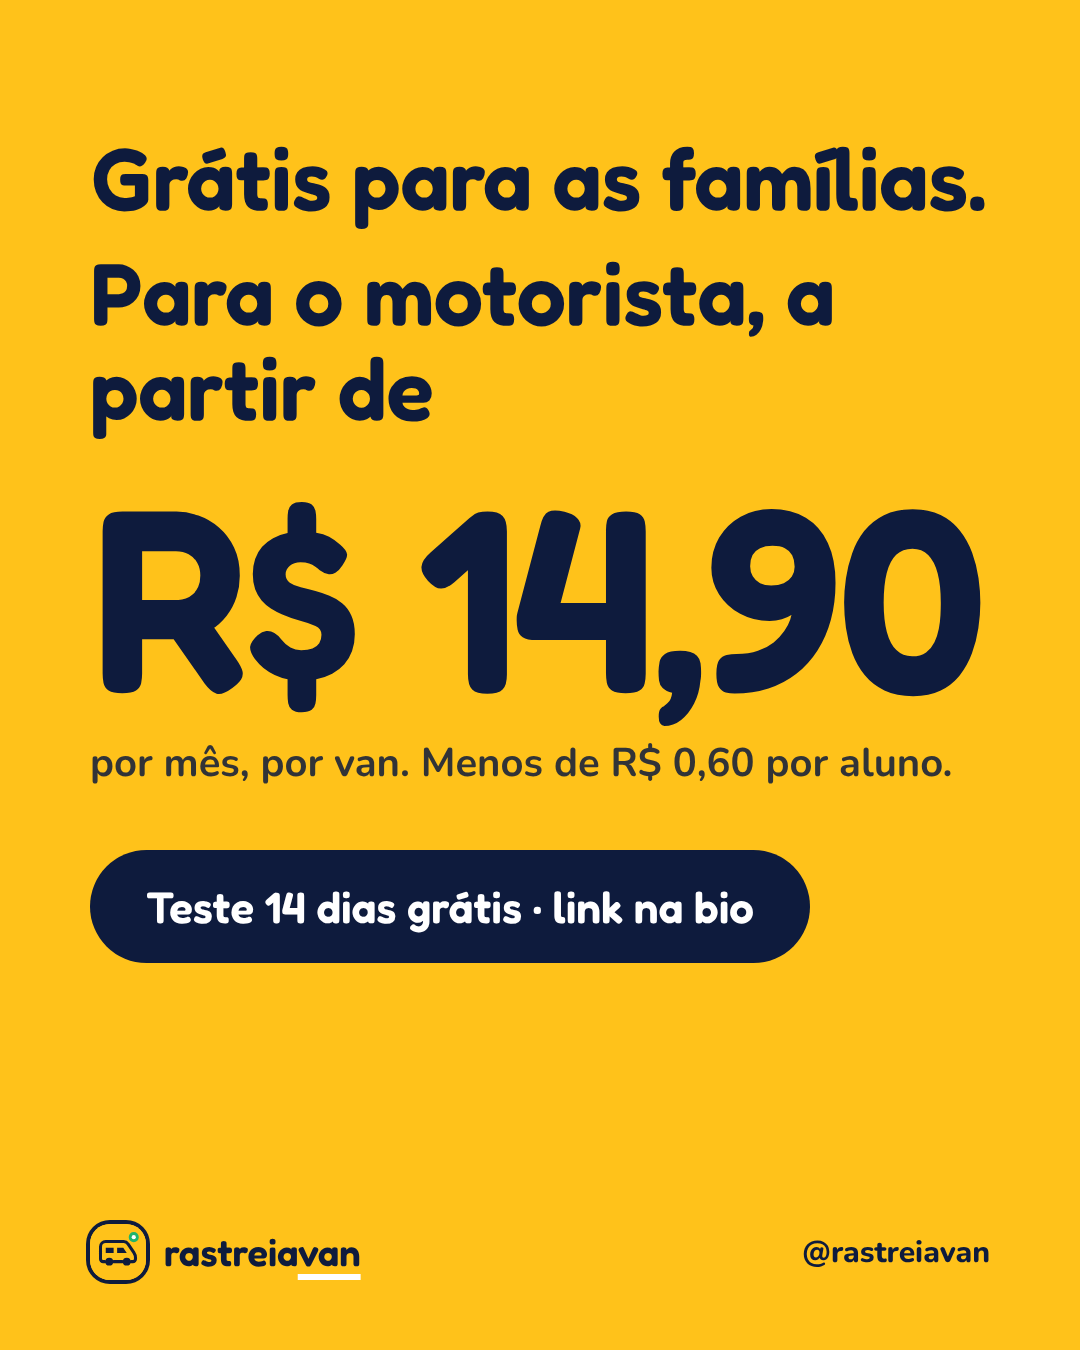
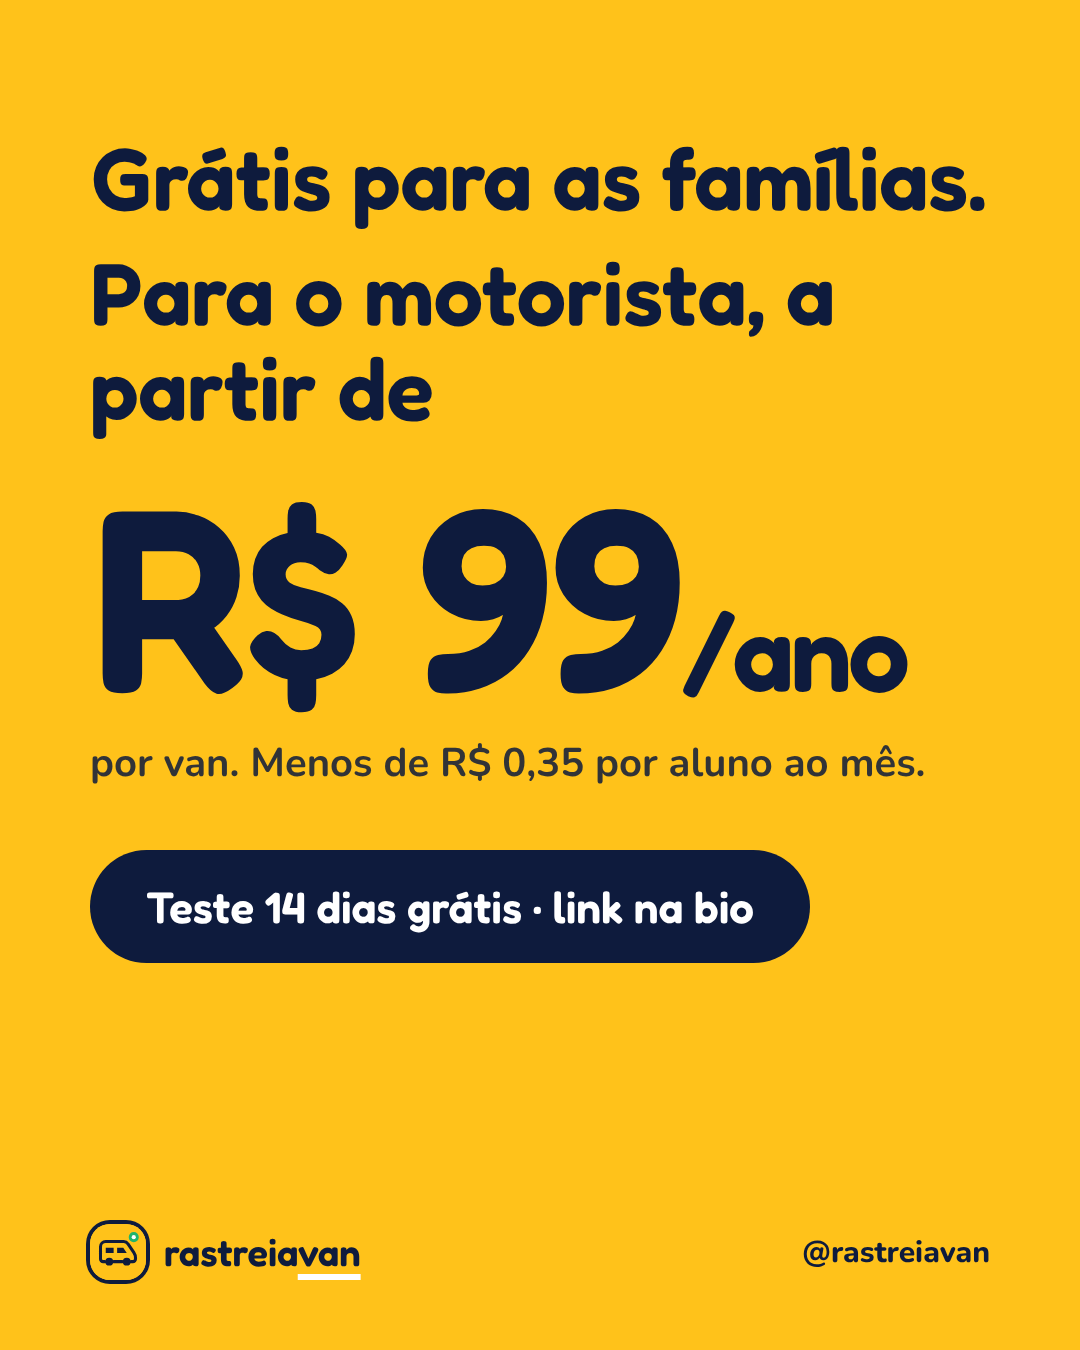
Rastreia Van: preços R$ 9,90/19,90 e anual R$ 99/199 em destaque, avisos só por notificação
Claude-Session: https://claude.ai/code/session_01UAdC3Mnt3zmUnofXt4JYxz

Changed region(s): [[0.1528, 0.3733, 0.9167, 0.5911]]

diff --git a/rastreiavan/index.html b/rastreiavan/index.html
@@ -4,7 +4,7 @@
   <meta charset="utf-8">
   <meta name="viewport" content="width=device-width, initial-scale=1">
   <title>Rastreia Van</title>
-  <meta name="description" content="Rastreie a van escolar em tempo real e receba notificações no celular: a van saiu, chega em 5 minutos, chegou na escola. App grátis para as famílias, a partir de R$ 14,90 por van para o motorista.">
+  <meta name="description" content="Rastreie a van escolar em tempo real e receba notificações no celular: a van saiu, chega em 5 minutos, chegou na escola. App grátis para as famílias, a partir de R$ 99 por ano por van para o motorista.">
   <meta name="theme-color" content="#FFC21A">
   <meta property="og:title" content="Rastreia Van — saiba exatamente quando a van chega">
   <meta property="og:description" content="Mapa ao vivo da van escolar e notificações automáticas no celular da família.">
@@ -65,7 +65,7 @@
         </div>
         <div class="provas">
           <div><svg><use href="#i-check"/></svg> App grátis para as famílias</div>
-          <div><svg><use href="#i-check"/></svg> A partir de R$ 14,90 por van</div>
+          <div><svg><use href="#i-check"/></svg> A partir de R$ 99 por ano</div>
           <div><svg><use href="#i-check"/></svg> Pronto em 5 minutos</div>
         </div>
       </div>
@@ -118,7 +118,7 @@
       <div><b>Ao vivo</b><span>a van se mexendo no mapa</span></div>
       <div><b>0 mensagens</b><span>digitadas pelo motorista</span></div>
       <div><b>R$ 0</b><span>para as famílias</span></div>
-      <div><b>~R$ 0,60</b><span>por aluno ao mês para o motorista</span></div>
+      <div><b>R$ 99/ano</b><span>por van: menos de R$ 0,35 por aluno ao mês</span></div>
     </div>
   </div>
 
@@ -241,16 +241,16 @@
 
       <div class="toggle">
         <span>Mensal</span>
-        <button class="chave" role="switch" aria-checked="false" aria-label="Alternar cobrança anual" id="chave-anual"></button>
-        <span>Anual <span class="economia">2 meses grátis</span></span>
+        <button class="chave" role="switch" aria-checked="true" aria-label="Alternar cobrança anual" id="chave-anual"></button>
+        <span>Anual <span class="economia">mais vantajoso</span></span>
       </div>
 
       <div class="planos">
         <div class="plano">
           <h3>📍 Essencial</h3>
           <p class="desc">A família vê a van no mapa e recebe os avisos principais.</p>
-          <div class="preco" data-mensal="14,90" data-anual="12,42">R$ <span class="valor">14,90</span><small>/mês</small></div>
-          <p class="preco-nota" data-mensal="Menos de R$ 0,60 por aluno" data-anual="R$ 149 por ano">Menos de R$ 0,60 por aluno</p>
+          <div class="preco" data-mensal="9,90" data-anual="99">R$ <span class="valor">99</span><small>/ano</small></div>
+          <p class="preco-nota" data-mensal="Ou R$ 99 no plano anual" data-anual="Equivale a R$ 8,25/mês · economize R$ 19,80">Equivale a R$ 8,25/mês · economize R$ 19,80</p>
           <ul>
             <li><svg><use href="#i-check"/></svg> Mapa em tempo real para as famílias</li>
             <li><svg><use href="#i-check"/></svg> Previsão de chegada (casa e escola)</li>
@@ -268,8 +268,8 @@
           <span class="fita">⭐ Mais escolhido</span>
           <h3>🚐 Completo</h3>
           <p class="desc">Todos os avisos e tudo para organizar a sua van.</p>
-          <div class="preco" data-mensal="29,90" data-anual="24,92">R$ <span class="valor">29,90</span><small>/mês</small></div>
-          <p class="preco-nota" data-mensal="Cerca de R$ 1,20 por aluno" data-anual="R$ 299 por ano">Cerca de R$ 1,20 por aluno</p>
+          <div class="preco" data-mensal="19,90" data-anual="199">R$ <span class="valor">199</span><small>/ano</small></div>
+          <p class="preco-nota" data-mensal="Ou R$ 199 no plano anual" data-anual="Equivale a R$ 16,58/mês · economize R$ 39,80">Equivale a R$ 16,58/mês · economize R$ 39,80</p>
           <ul>
             <li><svg><use href="#i-check"/></svg> <b>Tudo do plano Essencial</b></li>
             <li><svg><use href="#i-check"/></svg> Todos os avisos: chega em 10 e 5 min, embarcou, desembarcou, saiu da escola, chegou em casa, atraso</li>
@@ -338,8 +338,8 @@
         <h2>Perguntas frequentes</h2>
       </div>
       <div class="faq">
-        <details open><summary>Quem paga o Rastreia Van?</summary><p>O motorista (ou a empresa de transporte) assina por van: R$ 14,90 no Essencial ou R$ 29,90 no Completo. As famílias baixam o app e usam de graça. Com 25 alunos, dá menos de R$ 1,20 por aluno ao mês.</p></details>
-        <details><summary>Como a família recebe os avisos?</summary><p>Por notificação no celular, igual a uma mensagem chegando: o celular vibra e o aviso aparece na tela, mesmo bloqueado. É só ter o app instalado e permitir as notificações.</p></details>
+        <details open><summary>Quem paga o Rastreia Van?</summary><p>O motorista (ou a empresa de transporte) assina por van. No plano anual: R$ 99 no Essencial ou R$ 199 no Completo (ou R$ 9,90 e R$ 19,90 por mês). As famílias baixam o app e usam de graça. Com 25 alunos, o Completo anual dá menos de R$ 0,70 por aluno ao mês.</p></details>
+        <details><summary>Como a família recebe os avisos?</summary><p>Todos os avisos chegam por notificação no celular (o pop-up na tela), igual a uma mensagem chegando: o celular vibra e o aviso aparece na tela, mesmo bloqueado. É só ter o app instalado e permitir as notificações.</p></details>
         <details><summary>Preciso comprar um rastreador?</summary><p>Não. O celular do motorista funciona como rastreador quando ele toca em “Iniciar rota”. Mais para frente, também vai dar para conectar um rastreador GPS fixo na van.</p></details>
         <details><summary>Qual a diferença entre os dois planos?</summary><p>No <b>Essencial</b>, a família vê a van no mapa e recebe os avisos principais: a van saiu, chega em 5 minutos e chegou na escola. No <b>Completo</b>, entram todos os avisos (inclusive embarcou e chegou em casa), lista de chamada, “não vai hoje”, chat, recados, cobrança por Pix e botão de emergência.</p></details>
         <details><summary>Como a mãe conecta na van certa?</summary><p>Cada van tem um código (e um QR Code). A família digita o código no app, cadastra o filho e o endereço, e o motorista aprova.</p></details>
@@ -396,7 +396,7 @@
     var anual = chave.getAttribute('aria-checked') !== 'true';
     chave.setAttribute('aria-checked', String(anual));
     var modo = anual ? 'anual' : 'mensal';
-    document.querySelectorAll('.preco').forEach(function (p) { p.querySelector('.valor').textContent = p.dataset[modo]; });
+    document.querySelectorAll('.preco').forEach(function (p) { p.querySelector('.valor').textContent = p.dataset[modo]; p.querySelector('small').textContent = anual ? '/ano' : '/mês'; });
     document.querySelectorAll('.preco-nota').forEach(function (n) { n.textContent = n.dataset[modo]; });
   });
 </script>

diff --git a/rastreiavan/instagram/posts.html b/rastreiavan/instagram/posts.html
@@ -134,8 +134,8 @@
 <div class="post amarelo" id="carrossel-05">
   <h2 class="medio" style="margin-top: 40px;">Grátis para as famílias.</h2>
   <h2 class="medio" style="margin-top: 20px;">Para o motorista, a partir de</h2>
-  <div class="f" style="font-size: 260px; margin-top: 20px; letter-spacing: -4px;">R$ 14,90</div>
-  <p class="sub">por mês, por van. Menos de R$ 0,60 por aluno.</p>
+  <div class="f" style="font-size: 260px; margin-top: 20px; letter-spacing: -4px;">R$ 99<span style="font-size:110px">/ano</span></div>
+  <p class="sub">por van. Menos de R$ 0,35 por aluno ao mês.</p>
   <div style="margin-top: 60px;"><span class="botao">Teste 14 dias grátis · link na bio</span></div>
   <div class="rodape"><span class="marca" style="font-size:38px"><img src="../assets/logo-mark.svg" alt="" style="width:56px;height:56px"><b><b>rastreia<span>van</span></b></b></span><span>@rastreiavan</span></div>
 </div>
@@ -187,14 +187,14 @@
   <div style="display:grid; grid-template-columns: 1fr 1fr; gap: 30px; margin-top: 60px;">
     <div class="cartao" style="padding: 44px;">
       <div class="f" style="font-size: 50px;">📍 Essencial</div>
-      <div class="f" style="font-size: 110px; margin: 20px 0 6px;">14,90</div>
-      <div style="font-size: 28px; font-weight: 700; color: var(--tx2); margin-bottom: 30px;">R$ por mês</div>
+      <div class="f" style="font-size: 110px; margin: 20px 0 6px;">99</div>
+      <div style="font-size: 28px; font-weight: 700; color: var(--tx2); margin-bottom: 30px;">R$ por ano · ou 9,90/mês</div>
       <ul class="chk" style="font-size: 27px; gap: 14px;"><li>Mapa ao vivo</li><li>Previsão de chegada</li><li>Aviso: saiu, 5 min, chegou na escola</li></ul>
     </div>
     <div class="cartao" style="padding: 44px; box-shadow: 0 0 0 8px var(--am);">
       <div class="f" style="font-size: 50px;">🚐 Completo</div>
-      <div class="f" style="font-size: 110px; margin: 20px 0 6px;">29,90</div>
-      <div style="font-size: 28px; font-weight: 700; color: var(--tx2); margin-bottom: 30px;">R$ por mês</div>
+      <div class="f" style="font-size: 110px; margin: 20px 0 6px;">199</div>
+      <div style="font-size: 28px; font-weight: 700; color: var(--tx2); margin-bottom: 30px;">R$ por ano · ou 19,90/mês</div>
       <ul class="chk" style="font-size: 27px; gap: 14px;"><li>Todos os avisos</li><li>Chamada e “não vai hoje”</li><li>Chat, recados e Pix</li><li>Botão de emergência</li></ul>
     </div>
   </div>
@@ -244,9 +244,9 @@
   <div class="marca"><img src="../assets/logo-mark.svg" alt=""><b>rastreia<span>van</span></b></div>
   <h1 class="grande" style="margin-top: 90px;">Motorista, teste <mark>14 dias grátis</mark>.</h1>
   <div class="cartao" style="margin-top: 80px; box-shadow: 0 20px 50px rgba(14,27,61,.12);">
-    <div class="f" style="font-size: 56px;">📍 Essencial · R$ 14,90/mês</div>
-    <div class="f" style="font-size: 56px; margin-top: 30px;">🚐 Completo · R$ 29,90/mês</div>
-    <p class="sub" style="margin-top: 30px; color: var(--tx2);">Preço por van. Famílias usam grátis.</p>
+    <div class="f" style="font-size: 56px;">📍 Essencial · R$ 99/ano</div>
+    <div class="f" style="font-size: 56px; margin-top: 30px;">🚐 Completo · R$ 199/ano</div>
+    <p class="sub" style="margin-top: 30px; color: var(--tx2);">Ou R$ 9,90 e R$ 19,90 por mês. Preço por van. Famílias usam grátis.</p>
   </div>
   <div style="margin-top: auto; text-align: center;"><span class="botao">👆 Link para começar</span></div>
 </div>

diff --git a/rastreiavan/PROMPT.md b/rastreiavan/PROMPT.md
@@ -19,9 +19,11 @@ O motorista da van escolar toca em "Iniciar rota" no app. As famílias conectam 
 ## 3. Planos (cobrança por van, até 25 alunos)
 | Plano | Mensal | Anual | O que inclui |
 |---|---|---|---|
-| **Essencial** | R$ 14,90 | R$ 149 | Mapa ao vivo para as famílias, previsão de chegada (casa e escola), notificações principais (**a van saiu**, **chega em 5 min**, **chegou na escola**), código e QR Code da van, histórico de 7 dias |
-| **Completo** | R$ 29,90 | R$ 299 | Tudo do Essencial + **todas** as notificações (chega em 10 e 5 min, embarcou, desembarcou, saiu da escola, chegou em casa, atraso), lista de chamada, "meu filho não vai hoje", chat motorista ↔ família, recado em massa (push para todas as famílias), vários responsáveis por aluno, cobrança de mensalidades por Pix, botão de emergência, histórico de 12 meses |
+| **Essencial** | R$ 9,90 | **R$ 99** | Mapa ao vivo para as famílias, previsão de chegada (casa e escola), notificações principais (**a van saiu**, **chega em 5 min**, **chegou na escola**), código e QR Code da van, histórico de 7 dias |
+| **Completo** | R$ 19,90 | **R$ 199** | Tudo do Essencial + **todas** as notificações (chega em 10 e 5 min, embarcou, desembarcou, saiu da escola, chegou em casa, atraso), lista de chamada, "meu filho não vai hoje", chat motorista ↔ família, recado em massa (push para todas as famílias), vários responsáveis por aluno, cobrança de mensalidades por Pix, botão de emergência, histórico de 12 meses |
 
+- **O foco é vender o plano anual.** No checkout e no app, mostrar o anual como opção padrão e destacada (equivale a R$ 8,25 e R$ 16,58 por mês), com o mensal como alternativa.
+- **Todos os avisos são por notificação push (pop-up no celular).** WhatsApp ficou caro e está fora.
 - 14 dias grátis do plano Completo, sem cartão.
 - Bloquear os recursos por plano **no backend** (feature flags), não só esconder na interface.
 - Plano Frota (mais de 3 vans ou escolas): no MVP, só um formulário de contato.
@@ -105,7 +107,7 @@ Para cada aluno ativo na rota em andamento, gerar eventos:
 1. **Semanas 1–2:** login, cadastro de van/escola/alunos, código e QR, aprovação de famílias.
 2. **Semanas 3–4:** "Iniciar rota" com localização em segundo plano + mapa ao vivo na família.
 3. **Semana 5:** motor de notificações push (eventos do Essencial).
-4. **Semana 6:** assinatura (Essencial R$ 14,90 / Completo R$ 29,90) com teste de 14 dias e bloqueio por plano.
+4. **Semana 6:** assinatura (Essencial R$ 99/ano ou R$ 9,90/mês; Completo R$ 199/ano ou R$ 19,90/mês, anual como padrão) com teste de 14 dias e bloqueio por plano.
 5. **Semana 7:** recursos do Completo: chamada, "não vai hoje", demais avisos, chat, recados.
 6. **Depois:** mensalidades por Pix, emergência, painel Frota, rastreador GPS fixo.
 

diff --git a/rastreiavan/instagram/legendas.md b/rastreiavan/instagram/legendas.md
@@ -48,7 +48,7 @@ Agora a família vê a van escolar no mapa, ao vivo, e recebe um aviso no celula
 Sem ligação, sem “já saiu?” no grupo, sem descer 15 minutos antes.
 
 ✅ App grátis para as famílias
-✅ Motorista a partir de R$ 14,90 por mês
+✅ Motorista a partir de R$ 99 por ano
 ✅ 14 dias grátis para testar
 
 Marca aqui o motorista da van do seu filho 👇
@@ -63,7 +63,7 @@ Arrasta pro lado e vê como o Rastreia Van resolve em 3 passos 👉
 2⃣ A família digita o código da van
 3⃣ O aviso aparece no celular, sozinho
 
-Grátis para as famílias. Para o motorista, a partir de R$ 14,90/mês.
+Grátis para as famílias. Para o motorista, a partir de R$ 99 por ano.
 Link na bio para testar 14 dias grátis 💛
 
 ### post-02-portao — Mães
@@ -95,15 +95,16 @@ Rastreia Van: o aviso chega sozinho no seu celular.
 
 ### post-05-planos — Planos
 Preço justo, do tamanho da sua van 🚐
+Todos os avisos chegam por notificação no celular 🔔
 
-📍 Essencial · R$ 14,90/mês
+📍 Essencial · R$ 99/ano (ou R$ 9,90/mês)
 Mapa ao vivo, previsão de chegada e os avisos principais (saiu, chega em 5 min, chegou na escola).
 
-🚐 Completo · R$ 29,90/mês
+🚐 Completo · R$ 199/ano (ou R$ 19,90/mês)
 Todos os avisos, lista de chamada, “meu filho não vai hoje”, chat, recados, cobrança por Pix e botão de emergência.
 
 💛 Famílias usam grátis
-📅 No plano anual, 2 meses grátis
+📅 No anual sai mais barato: menos de R$ 0,35 por aluno ao mês
 🎁 14 dias grátis para testar
 
 Link na bio 👆

diff --git a/rastreiavan/README.md b/rastreiavan/README.md
@@ -12,7 +12,7 @@ Micro SaaS de rastreamento de van escolar com notificações automáticas no cel
 ## Planos
 | Plano | Mensal | Anual |
 |---|---|---|
-| Essencial | R$ 14,90/van | R$ 149 |
-| Completo | R$ 29,90/van | R$ 299 |
+| Essencial | R$ 9,90/van | **R$ 99** |
+| Completo | R$ 19,90/van | **R$ 199** |
 
-Famílias usam grátis. 14 dias de teste.
+Foco: vender o plano anual. Todos os avisos por notificação push. Famílias usam grátis. 14 dias de teste.
